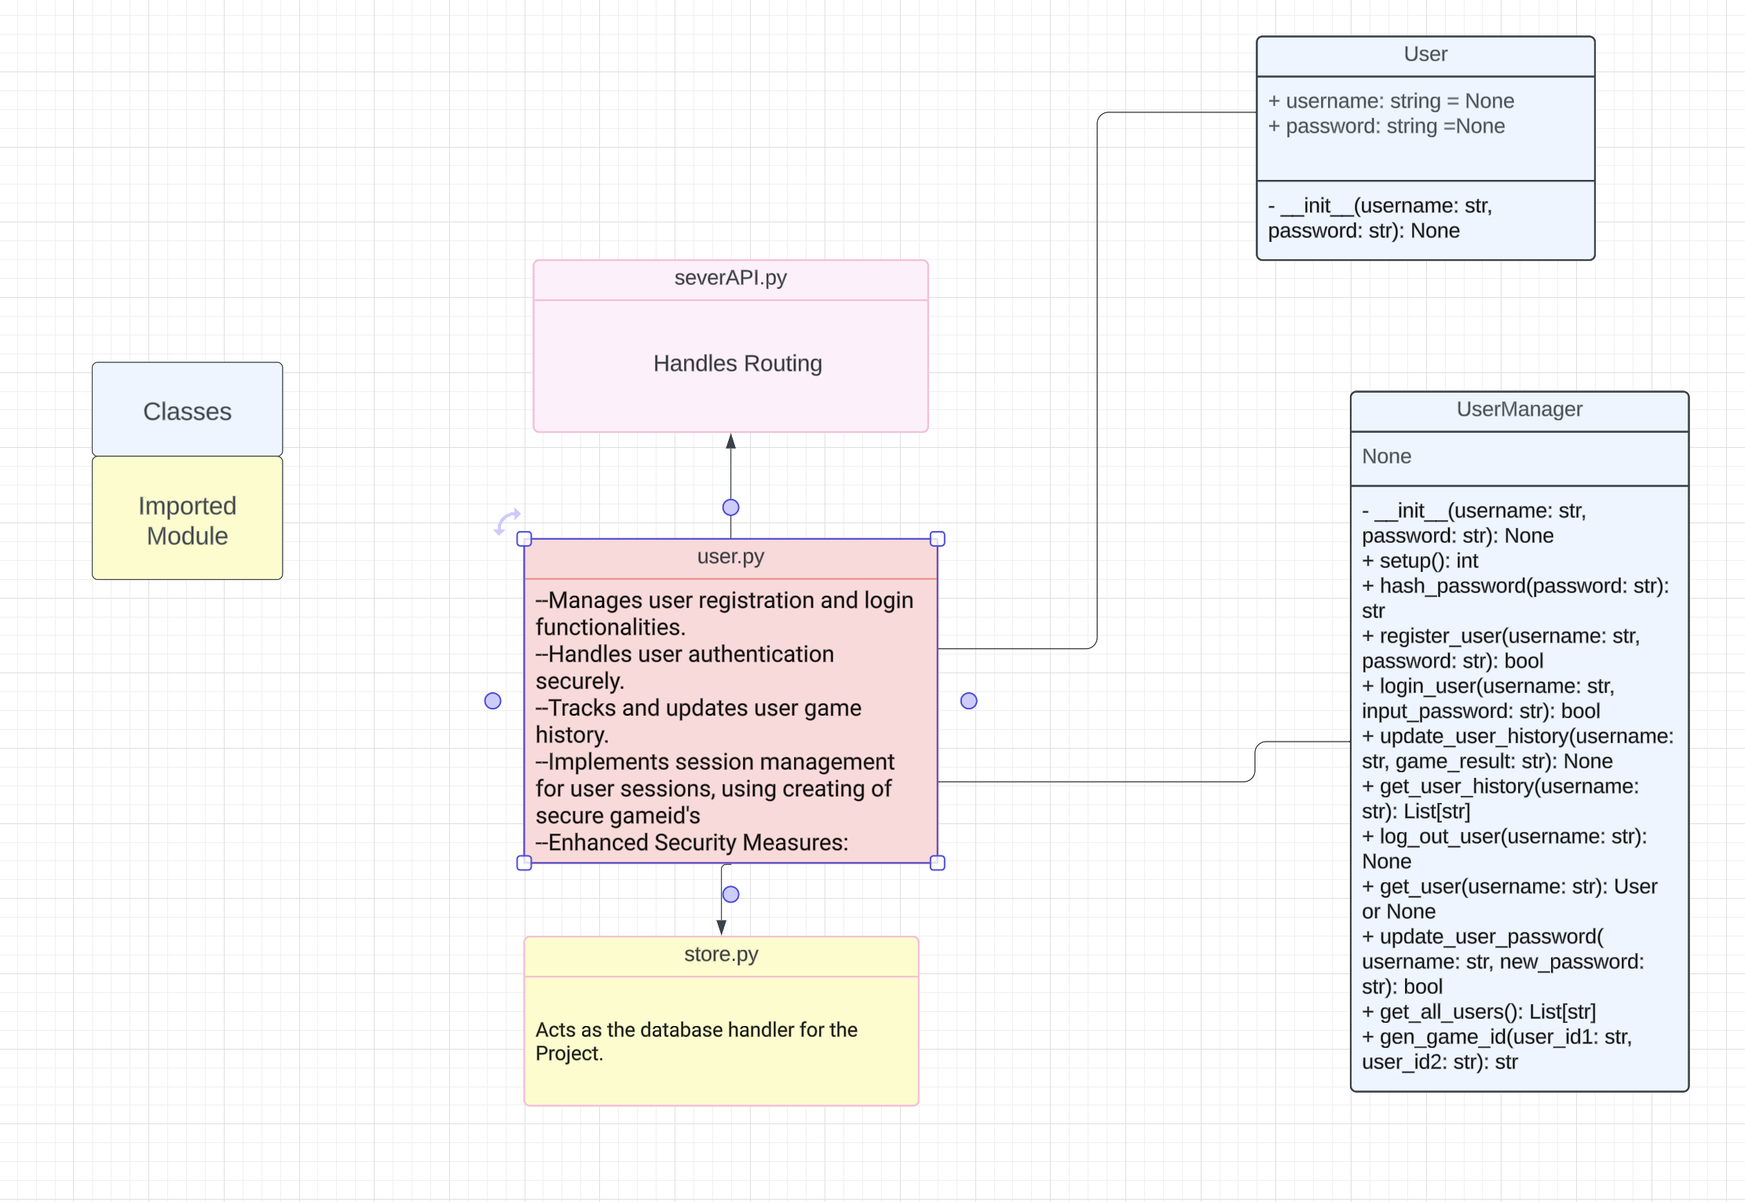
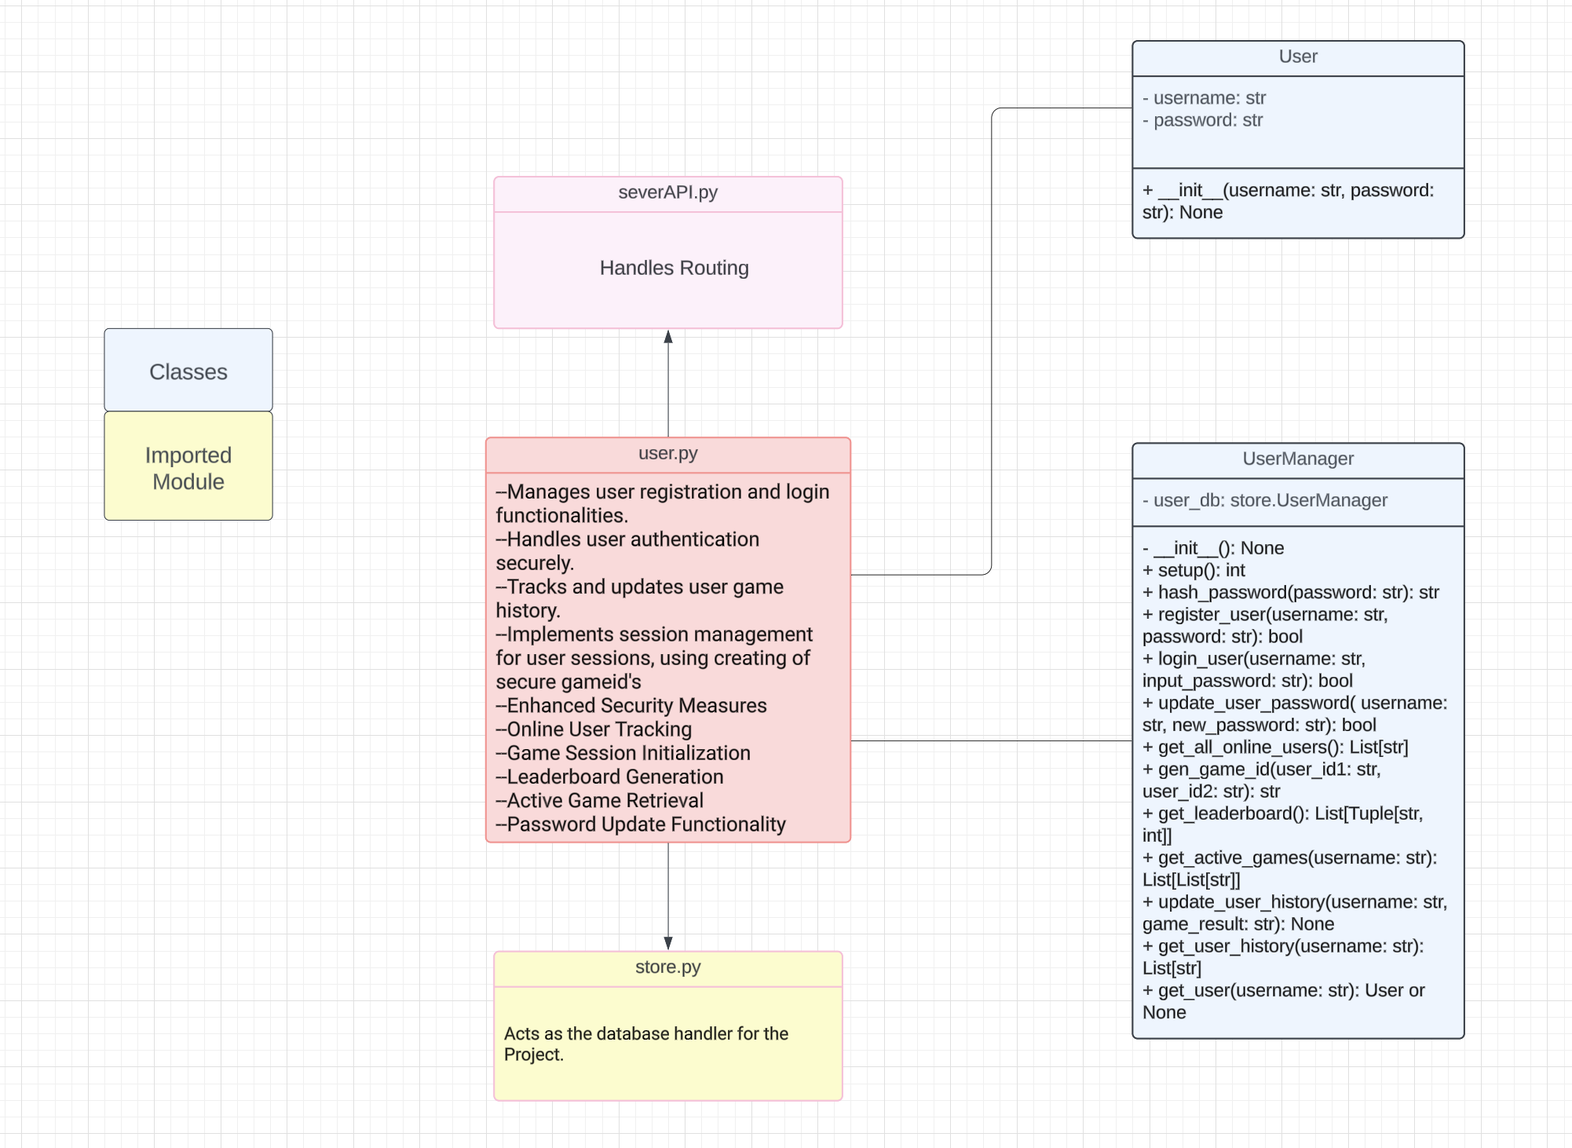
Added and Updated documents for Sprint2

diff --git a/docs/architecture_docs/arch_user.md b/docs/architecture_docs/arch_user.md
@@ -2,80 +2,71 @@
 **Created by:** Devender Singh
 
 ## Introduction
-This document outlines the architecture and design of the User Management System for our application, focusing on user operations such as registration, authentication, password management, and activity tracking.
+This document provides a comprehensive overview of the User Management System architecture in our application. It focuses on user-related operations such as registration, authentication, password management, and activity tracking, reflecting the latest changes and enhancements.
 
-## Components:
+## Components
+
 ### User Database
-- **Purpose:** HoSecurely stores user details, including usernames and hashed passwords, ensuring confidentiality and integrity..
-- **Implementation:** Employs shelve for persistent storage, providing an efficient and straightforward mechanism for data access and manipulation.
+- **Purpose:** Securely stores user information, including usernames and encrypted passwords, to ensure data confidentiality and integrity.
+- **Implementation:** Utilizes `shelve` for persistent storage, offering an efficient and straightforward method for data retrieval and manipulation.
 
 ### Security Module
-- **Purpose:** Handles the secure hashing of user passwords, enhancing the security of stored credentials.
-- **Implementation:** Utilizes the hashlib module to implement SHA-256 hashing, ensuring robust and secure password storage.
+- **Purpose:** Manages the encryption of user passwords to enhance the security of stored credentials.
+- **Implementation:** Employs the `hashlib` module for SHA-256 hashing, providing strong and secure encryption for password storage.
 
 ### Unique Identifier Generator
-- **Purpose:** Generates unique identifiers for game sessions, facilitating the management and differentiation of user activities.
-- **Implementation:** Leverages the uuid module to produce unique game IDs, ensuring the uniqueness and non-replicability of session identifiers.
+- **Purpose:** Generates unique identifiers for game sessions, aiding in the management and differentiation of user sessions and activities.
+- **Implementation:** Uses the `uuid` module to produce unique IDs for games, ensuring session identifiers are unique and non-replicable.
 
-## Classes:
+## Classes
+
 ### User Class
-- **Responsibilities:**
-  - Represents a user with a username and password.
-- **Methods:**
-  - `__init__(username, password)`: Initializes a User instance with given attributes.
-- **Attributes:**
-  - `username`: Unique identifier for the user.
-  - `password`: Account password.
+- **Responsibilities:** Represents user entities with essential attributes like username and password.
+- **Methods and Attributes:**
+  - `__init__(self, username, password)`: Constructor that initializes a new User instance.
+  - `username (str)`: A unique identifier for the user.
+  - `password (str)`: The user's password, stored in encrypted format.
 
 ### UserManager Class
-- **Responsibilities:**
-  - Manages user tasks such as registration, login, and tracking historical data.
-- **Methods:**
-  - `setup()`: Initializes the user database for storage and retrieval.
-  - `hash_password(password)`: Generates a SHA-256 hash of the user's password.
-  - `register_user(username, password)`: Registers a new user with hashed password storage.
-  - `login_user(username, input_password)`: Authenticates a user based on hashed password comparison.
-  - `update_user_password(username, new_password)`: Securely updates a user's password with hashing.
-  - `get_all_users()`: Retrieves all user names from the database.
-  - `gen_game_id(user_id1, user_id2)`: Generates and initializes a unique game ID for a session between two users.
-
+- **Responsibilities:** Handles various user operations such as registration, login, and managing user history.
+- **Key Methods:**
+  - `setup(self)`: Sets up the user database for data storage and retrieval.
+  - `hash_password(self, password)`: Encrypts a password using SHA-256.
+  - `register_user(self, username, password)`: Registers a new user, encrypting the password for storage.
+  - `login_user(self, username, input_password)`: Authenticates a user by comparing encrypted passwords.
+  - `update_user_password(self, username, new_password)`: Updates a user's password after encrypting the new password.
+  - `get_all_online_users(self)`: Lists all users marked as online.
+  - `gen_game_id(self, user_id1, user_id2)`: Generates a unique ID for a new game session between two users.
 
 ## Implementation Details
 
 ### User Registration
-- The `register_user` method adds a new user to the system with a hashed password, enhancing security by preventing the storage of plain text passwords. It checks if the username already exists in the database and, if not, stores the user with a SHA-256 hashed password. This method returns a boolean indicating the success or failure of the user registration process.
+- Uses `register_user` to add users with encrypted passwords, enhancing security by avoiding plaintext password storage.
 
 ### User Authentication
-- The `login_user` method authenticates a user's credentials by hashing the input password and comparing it with the stored hashed password in the database. This process ensures that user authentication is performed securely without exposing or comparing plain text passwords. It returns `True` if the authentication is successful, otherwise `False`.
+- `login_user` authenticates users by encrypting the input password and comparing it with the stored version, maintaining secure authentication practices.
 
 ### Password Management
-- The `update_user_password` method allows users to securely update their passwords. It hashes the new password before updating the stored password in the database. This method ensures that users' new passwords are stored securely and not in plain text, enhancing the overall security of the user management system.
+- Enables users to securely change their passwords through `update_user_password`, which encrypts the new password before updating the stored version.
 
-### User History and Session Management
-- The `update_user_history` method records the outcomes of a user's games, allowing for historical tracking of game results.
-- The `log_out_user` method terminates a user's session, effectively logging them out of the system. This function is crucial for maintaining the security and integrity of user sessions.
+### Activity and Session Management
+- Tracks user game results and manages active game sessions, using methods like `update_user_history` and `get_active_games`, to maintain comprehensive user activity records.
 
 ### Game Session Initialization
-- The `gen_game_id` method generates a unique game ID for a new game session between two users and initializes the game state in the database. This method uses a UUID to ensure that each game session has a unique identifier, facilitating the management of individual game sessions. The initialization of the game state includes setting the player details and the initial game board, ensuring that the game is ready to be played immediately upon creation.
-
+- `gen_game_id` creates unique game IDs for new sessions, using UUIDs to ensure each session is distinct and properly initialized in the database.
 
 ## Key Functionalities
 
-### Secure User Registration and Authentication
-- Employs SHA-256 hashing for password security during registration and authentication processes.
-
-### Game Session Management
-- Innovatively generates unique game IDs for sessions and initializes these in the database, ensuring effective game management.
-
-### Password Security
-- Facilitates secure password updates by hashing new passwords prior to storage, enhancing overall security.
+- **Secure Registration and Authentication:** Ensures password security through SHA-256 encryption during user registration and authentication.
+- **Game Session Management:** Facilitates unique game session identification and management, promoting effective game session tracking.
+- **Enhanced Password Security:** Supports secure password updates by encrypting new passwords before storage.
 
 ## Future Directions
 
-### Enhanced Security Measures
-- Implementing additional layers of security, such as two-factor authentication, to further safeguard user data.
-
+- **Enhanced Security Features:** Plans to introduce two-factor authentication and other security enhancements.
+- **User Activity Analytics:** Aims to extend functionality to analyze user activity patterns for improved engagement and system optimization.
 ### User Activity Analytics
 - Extending the system to capture and analyze user activity patterns for improved user engagement and system optimization.
 
+## User Management System UML Diagram
 ![UML Diagram for User](../diagrams/User_UML_diagram.png)

diff --git a/docs/performance_reviews/performance_reviews_sprint_2.md b/docs/performance_reviews/performance_reviews_sprint_2.md
@@ -14,25 +14,25 @@
 | -------- |----------|
 | Cameron | Jager is a good leader, he can get a lot done very quickly, sometimes maybe a little too quickly. |
 | Ali | Jager is an amazing team player, he is willing to go the extra mile for the team. |
-| Devender |  |
+| Devender | Jager's swift problem-solving and leadership capabilties have been pivotal, driving the team towards key milestones efficiently. His rapid pace is an asset, though increased communication on changes would ensure the entire team remains synchronized, enhancing our collaborative efforts                                                                                          |
 | Evan |  Jager was amazing to work with, he put in work to understand all levels of the project architecture, and helped anyone whenever they needed it. He put a lot of time into making sure that we had a working product, and that we set clear goals in each meeting. The only suggestion would be to give details about changes to all team members, so they can adjust their module for better interactivity. |
 
 ## Devender's Performance review
 
-| Reviewer | Comments |
-| -------- |----------|
-| Cameron | Devender is an amazing caring person, he does need to work on his communication sometimes as he can get flustered and worried and then it is hard to get a word in.  |
-| Ali | Devender is a smart individual. He does need to work on controlling himself to not speak over other team members when they're speaking during team meetings and hold is composure. |
-| Jager |Trying to understand everyones modules shows a drive for deeper understanding and commitment to the team however,  Devender could on work on taking more time to listen and understand the design decisions made by the team and to only be concerned about the new implementations that are relevant to his module to avoid wasting meeting time on repeated clarification and/or discussion on implementations that aren't relevant to him.  |
-| Evan | Devender was committed to doing his absolute best on this project. He was great to work with, and always was wanting to understand any changes made to any module. Although he can get a bit overwhelmed sometimes with incoming due dates, this drives him to succeed.|
+| Reviewer | Comments                                                                                                                                                                                                                                                                                                                                                                                                                                      |
+| -------- |-----------------------------------------------------------------------------------------------------------------------------------------------------------------------------------------------------------------------------------------------------------------------------------------------------------------------------------------------------------------------------------------------------------------------------------------------|
+| Cameron | Devender is an amazing caring person, he does need to work on his communication sometimes as he can get flustered and worried and then it is hard to get a word in.                                                                                                                                                                                                                                                                           |
+| Ali | Devender is a smart individual. He does need to work on controlling himself to not speak over other team members when they're speaking during team meetings and hold is composure.                                                                                                                                                                                                                                                            |
+| Jager | Trying to understand everyones modules shows a drive for deeper understanding and commitment to the team however,  Devender could on work on taking more time to listen and understand the design decisions made by the team and to only be concerned about the new implementations that are relevant to his module to avoid wasting meeting time on repeated clarification and/or discussion on implementations that aren't relevant to him. |
+| Evan | Devender was committed to doing his absolute best on this project. He was great to work with, and always was wanting to understand any changes made to any module. Although he can get a bit overwhelmed sometimes with incoming due dates, this drives him to succeed.                                                                                                                                                                       |
 
 ## Ali's Performance review
 
 | Reviewer | Comments |
 | -------- |----------|
 | Cameron | Ali is very intelligent and tries his best. Ali might take on more work than he needs to and it might not hurt to ask for help with some of the weight.  |
-| Jager | Ali shows great understanding of his module, inter-module architecture, and required tasks but could take more of an initiative to aid team members in solving their problems and/or helping them understand the design decisions made by the team.  |
-| Devender |  |
+| Jager | Ali shows great understanding of his module, inter-module architecture, and required tasks but could take more of an initiative to aid team members in solving their problems and/or helping them understand the design decisions made by the team. |
+| Devender | Ali is really good at frontend and is happy to do a lot of work. He needs to share more about what he does, so other people can help him and know what he is doing.                 |
 | Evan |  Ali was a pleasure to work with. He did a great job working with the frontend, he did great when being scrum master, and got everyone to always stay on task. He could work on communicating changes made on his part with all members of the team, for their better understanding of his module. |
 
 ## Evan's Performance review
@@ -41,14 +41,14 @@
 | -------- |----------|
 | Cameron | Evan is quiet, but that's okay because he's not talking over anyone, but sometimes I think it wouldn't hurt if he did. He is polite. |
 | Ali | Evan has the potential to enhance his participation in team discussions and decisions by taking more initiatives. |
-| Devender |                                                    |
+| Devender | Evan is known for his attention to detail and kindness, which help foster a calm environment. However, he has the potential to be more involved in conversations and tackle tasks independently in order to improve teamwork and group interactions.                                                 |
 | Jager | Evan could try to play a more proactive and engaging role in team discussions and problem solving. Lacks initiative but delivers on tasks assigned. |
 
 ## Cameron's Performance review
 
 | Reviewer | Comments |
 | -------- | -------- |
-| Jager | Cameron has a tendency to procrastinate, and could work on more swiftly submitting PR's, always delivers to the team's deadlines but tackling the problems sooner could result in issues being identified before team meetings.  |
+| Jager | Cameron has a tendency to procrastinate, and could work on more swiftly submitting PR's, always delivers to the team's deadlines but tackling the problems sooner could result in issues being identified before team meetings. |
 | Ali | Cameron consistently meets team deadlines and delivers work reliably. However, he could further enhance his productivity by tackling issues sooner and thereby identifying any potential future problems. |
-| Devender |  |
+| Devender | Cameron finishes his work on time. He needs to plan ahead to have time to make things better and fix problems before they happen.                      |
 | Evan | Cameron was an asset to the team. He did great with his portion of the project. Although he sometimes can be busy, he wasn't afraid to ask for some help, and it resulted in better understanding of his module from my end, which allowed me to make better decisions about my own module. |

diff --git a/docs/GameFrameWork.md b/docs/GameFrameWork.md
@@ -35,29 +35,44 @@ Furthermore, this section will include architectural diagrams and explanations o
 - **Decoupling Considerations:** The framework addresses decoupling by defining clear interfaces between modules, allowing for independent development and testing of each component.
 - **Clear Usage Instructions:** To use the framework effectively, developers should follow the guidelines for implementing routes, handling game state updates, managing user authentication, and integrating with the game logic module. Detailed instructions and examples can be provided in the framework documentation.
 
-## User
 
-- **Description:** [Brief description of the module and its purpose]
-- **Refactoring Needed:** [Explanation of refactoring requirements]
-- **Interface Changes:** [Details of interface changes required]
-- **Architectural Diagrams:** [Illustrations of architectural changes, if needed]
+## User Management System
+
+### Description
+The User Management System oversees the work for managing user data, including registration, login, authentication, and maintaining user sessions within the game development framework. It serves as a foundational component for user interaction with the game, ensuring secure and efficient management of user accounts and their related information.
+
+### Refactoring Needed
+The User module requires refactoring to incorporate modern security practices, improve modularity, and enhance scalability. Specific areas of focus include:
+- **Security Enhancements:** Implement advanced security features like password salting alongside hashing, and introduce methods for two-factor authentication (2FA) and email verification to bolster user account security.
+- **Database Interaction Abstraction:** Refactor to abstract database interactions, enabling flexibility in database choice and technology. This includes creating a database interface that can be implemented for different database systems (SQL, NoSQL).
+- **Modular Integration:** Enhance the module's architecture to allow for easier integration with various parts of a two-player game framework, ensuring that user management can adapt to different game mechanics and rules.
+
+### Interface Changes
+The changes will include:
+- **User Authentication Expansion:** Broaden the user authentication interface to include OAuth and token-based authentication, facilitating integration with third-party services for a wider range of applications.
+- **Database Interface Redesign:** Redesign the database interface to be generic, supporting a variety of backends and allowing for seamless migration or changes in database technology.
+- **Support for Multi-Game Use:** Adjust the interface to manage user sessions and data across different two-player games, making it versatile and reusable across projects.
+
+### Architectural Diagrams
+Architectural enhancements will be visualized through updated UML diagrams, including:
+- **Class Diagrams:** Updated diagrams to showcase the new structure of the User and UserManager classes, emphasizing modular design for easy adaptation to different games.
+- **Sequence Diagrams:** Flowcharts detailing the registration, login, and authentication processes, including interactions with external authentication services.
+- **Component Diagrams:** Demonstrations of how the User module integrates with external services like OAuth providers, and interfaces with the game logic and database layers.
 
 ### Redesign Comparison
-
 #### Existing Architecture
+- **Tightly Coupled Design:** Initially, the User module was closely tied to a specific database (shelve) and lacked flexibility in security and database technology, limiting its adaptability to different two-player game types.
 
-- **Overview:** [Description of the current architecture]
-- **Module Diagrams:** [Module diagrams illustrating the existing architecture]
+### Proposed Redesign
+- **Layered, Modular Architecture:** The redesign will introduce a modular structure with clear separation of concerns, integrating advanced security practices and database abstraction to facilitate adaptation across a variety of two-player games.
 
-#### Proposed Redesign
+### Framework Usage for Decoupling and Integration
 
-- **Overview:** [Description of the proposed redesign]
-- **Module Diagrams:** [Module diagrams illustrating the proposed redesign]
+### Decoupling Considerations
+- The redesigned module emphasizes decoupling from specific implementations, particularly in database and authentication technologies, via abstract interfaces. This ensures the User module can be integrated into any two-player game framework with minimal dependency issues.
 
-#### Framework Usage
-
-- **Decoupling Considerations:** [Explanation of how the framework addresses decoupling issues]
-- **Clear Usage Instructions:** [Instructions on how to use the framework effectively]
+### Clear Usage Instructions
+- Detailed documentation will outline the process for integrating the User module into different two-player game projects, configuring database connections, and implementing security mechanisms. This will include guidelines for extending the module to accommodate various game types and user management requirements.
 
 # Frontend
 
